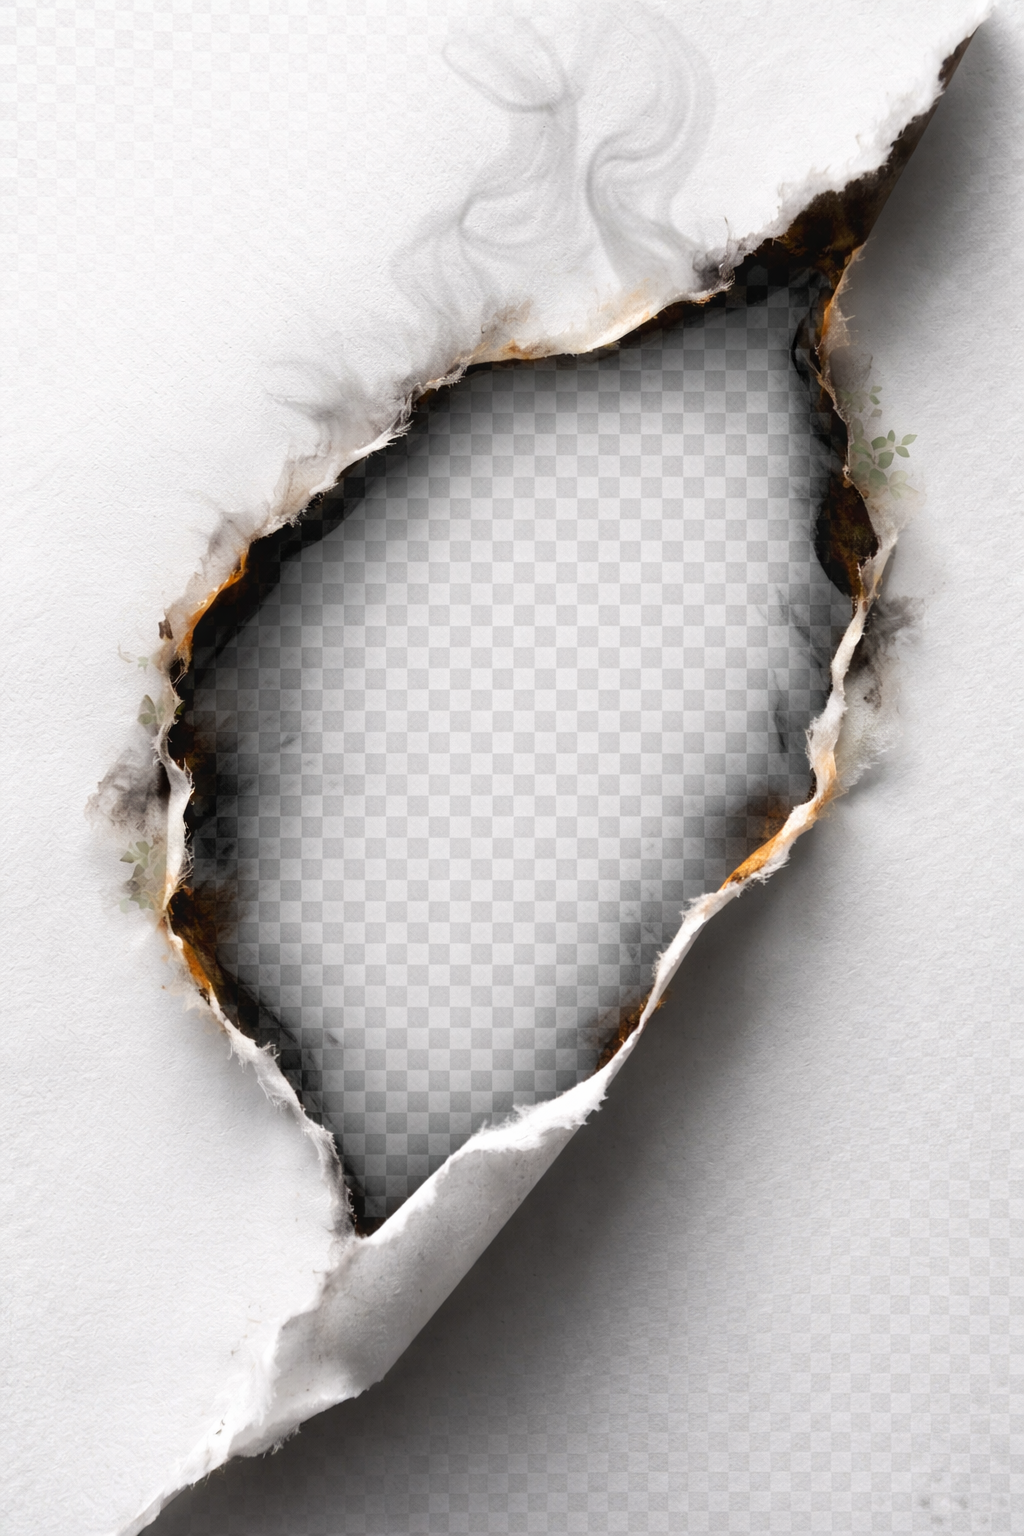
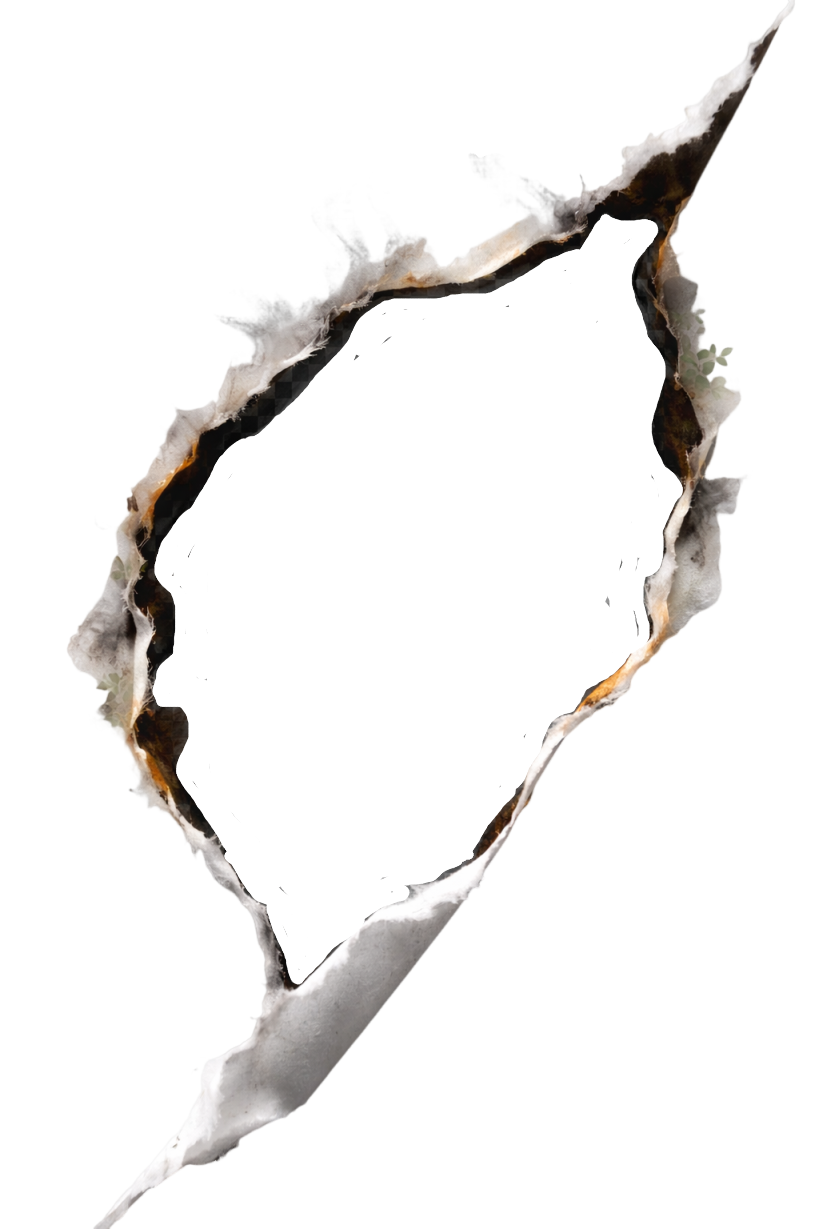
Changed mask

diff --git a/style.css b/style.css
@@ -43,8 +43,15 @@ body {
   height: 400px;
   cursor: pointer;
   transition: transform 0.4s ease;
+  position: relative;
 }
-
+.tear-container::after {
+  content: "";
+  position: absolute;
+  inset: 0;
+  background-url: url('./images/tear-mask.png') center/contain no-repeat;
+  pointer-events: none
+}
 .tear-container:hover {
   transform: scale(1.05);
 }
@@ -57,9 +64,12 @@ body {
   /* Torn mask */
   -webkit-mask-image: url('./images/tear-mask.png');
   mask-image: url('./images/tear-mask.png');
-  -webkit-mask-size: cover;
-  mask-size: cover;
+  -webkit-mask-size: contain;
+  mask-size: contain;
+  -webkit-mask-repeat: no-repeat;
   mask-repeat: no-repeat;
+  -webkit-mask-position: center;
+  mask-position: center;
   background-blend-mode: multiply;
   background-image: url('./images/tear-mask.png');
 }
@@ -67,7 +77,7 @@ body {
 .tear-content img {
   width: 100%;
   height: 100%;
-  object-fit: cover;
+  object-fit: center/cover;
   filter: brightness(0.8);
 }
 
